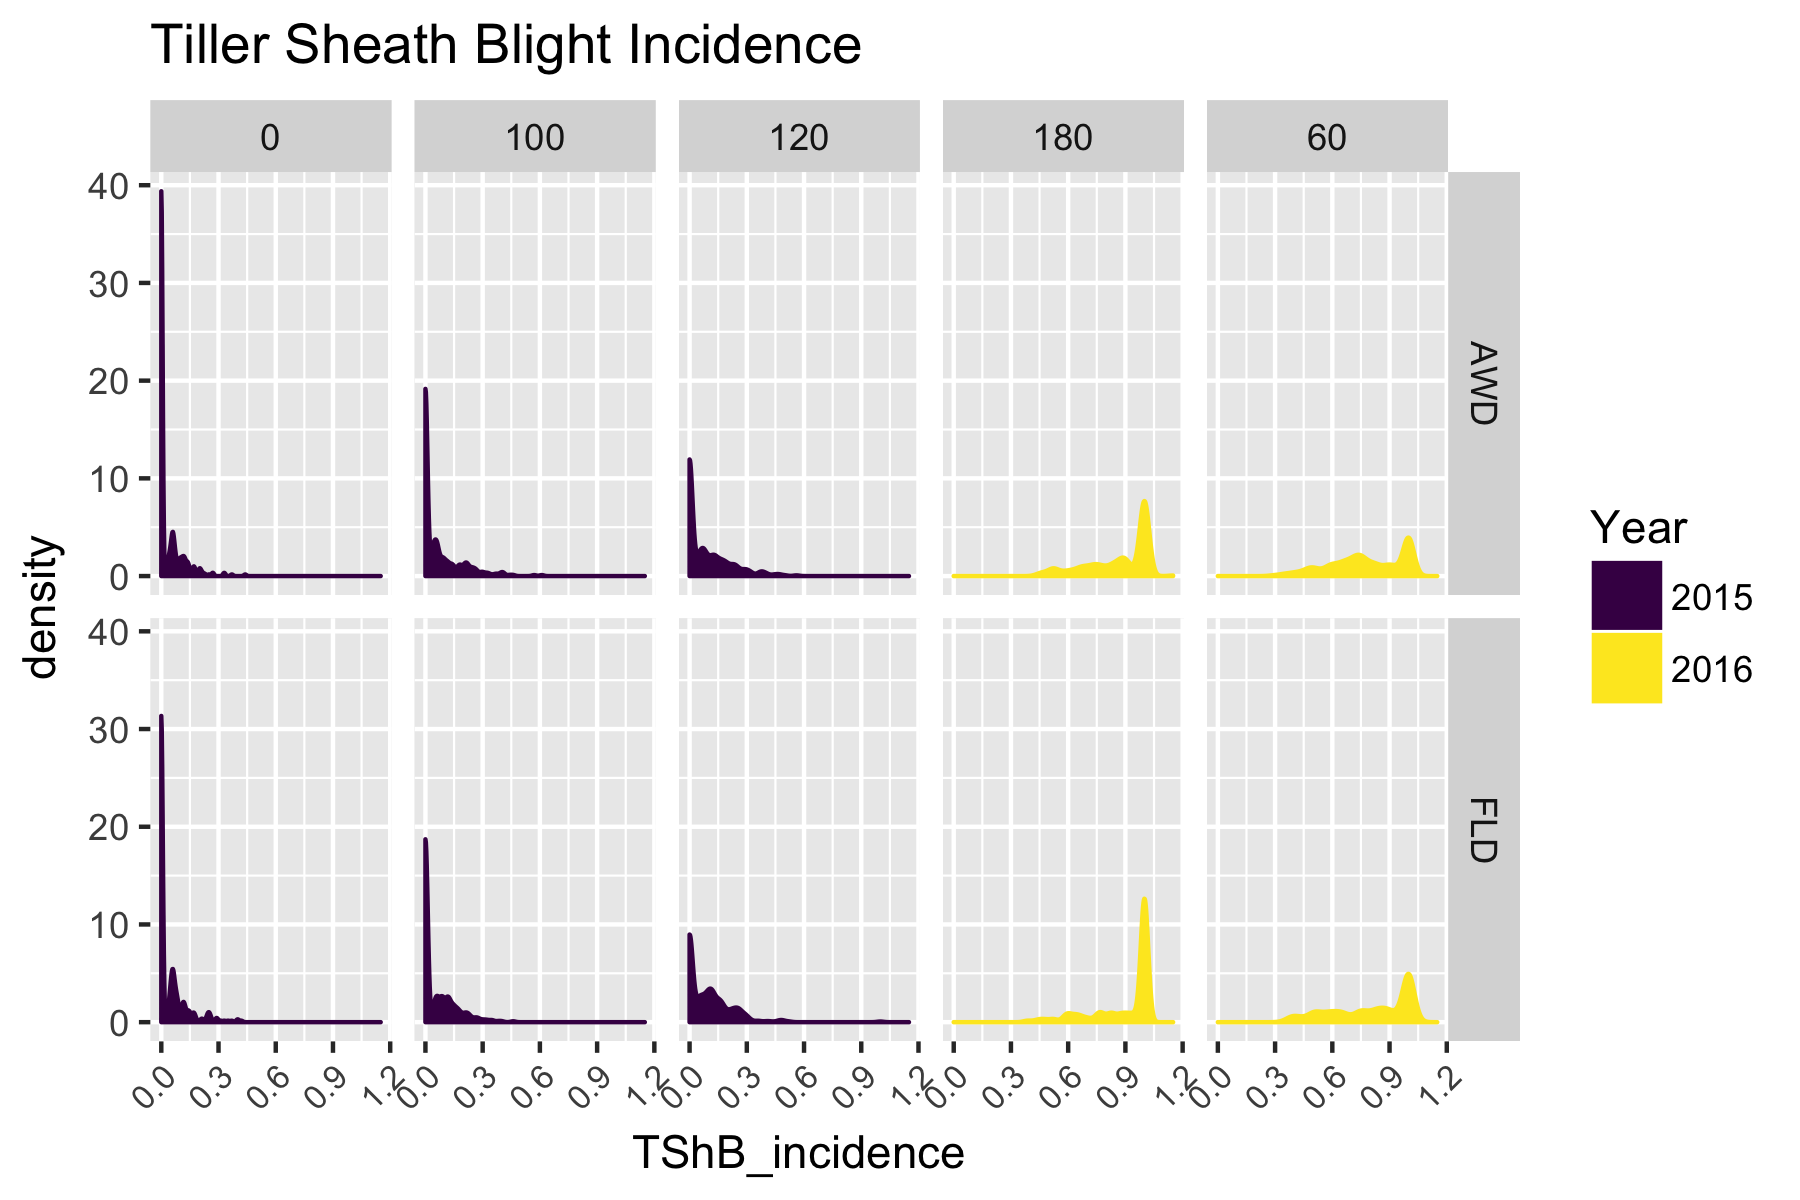
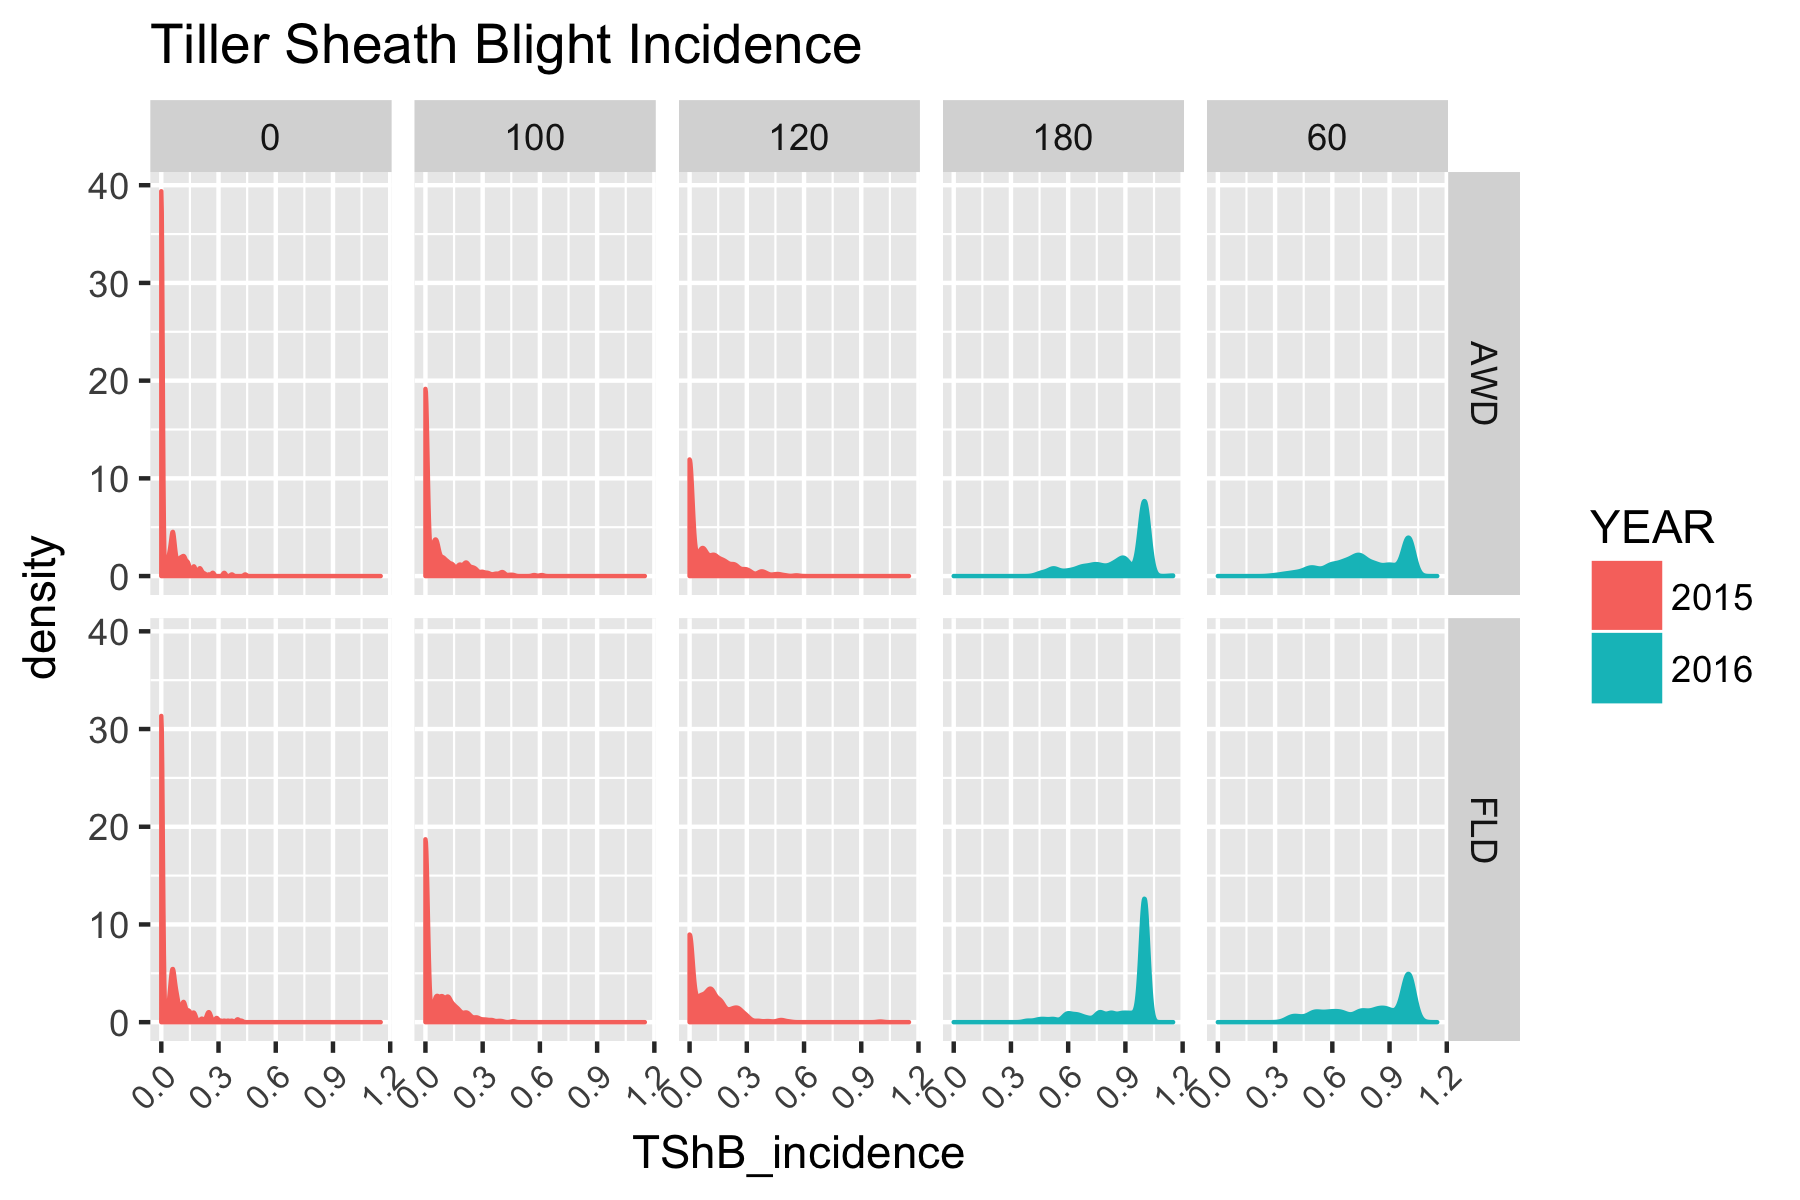
Update graphing
Viridis is lovely but it can be difficult to see the yellow in some
graphs

Four points are not enough for a boxplot, use dot plots for tiller
sheath blight incidence AUDPS

Use dot plots with violin plots overlaid for the raw tiller sheath
blight incidence

diff --git a/graphs/README.md b/graphs/README.md
@@ -22,9 +22,9 @@ Raw data for green leaves and dead leaves
 
 <img src="TShB_incidence_over_time.png"  style="display: block; margin: auto;" />
 
-<img src="TShB_Incidence_boxplot.png"  style="display: block; margin: auto;" />
+<img src="TShB_Incidence.png"  style="display: block; margin: auto;" />
 
-<img src="TShB_AUDPS_boxplot.png"  style="display: block; margin: auto;" />
+<img src="TShB_AUDPS_dotplot.png"  style="display: block; margin: auto;" />
 
 ******
 
